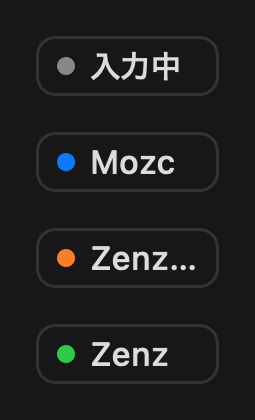
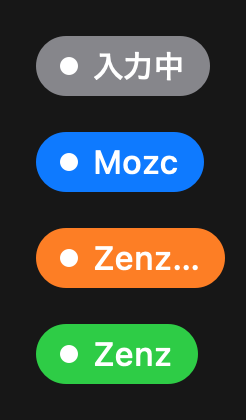
style(mac): draw the status indicator as a colored pill
- fill the chip with the status color and draw the dot and label in white
- round the corners to half the height
- size the chip to its own label, so short labels have no empty space on the right
- regenerate the sample images

diff --git a/src/mac/conversion_status_indicator.mm b/src/mac/conversion_status_indicator.mm
@@ -12,28 +12,20 @@ namespace {
 
 constexpr CGFloat kFontSize = 11;
 constexpr CGFloat kDotSize = 6;
-constexpr CGFloat kPaddingX = 7;
+constexpr CGFloat kPaddingX = 8;
 constexpr CGFloat kPaddingY = 3;
 constexpr CGFloat kDotLabelGap = 5;
-constexpr CGFloat kCornerRadius = 6;
 // Distance between the composition line and the indicator.
 constexpr CGFloat kLineGap = 4;
-
-constexpr Output::ConversionStatus kVisibleStatuses[] = {
-    Output::CONVERSION_STATUS_READING,
-    Output::CONVERSION_STATUS_ENGINE,
-    Output::CONVERSION_STATUS_ZENZ_PENDING,
-    Output::CONVERSION_STATUS_ZENZ,
-};
 
 NSDictionary<NSAttributedStringKey, id> *LabelAttributes() {
   return @{
     NSFontAttributeName : [NSFont systemFontOfSize:kFontSize weight:NSFontWeightMedium],
-    NSForegroundColorAttributeName : NSColor.labelColor,
+    NSForegroundColorAttributeName : NSColor.whiteColor,
   };
 }
 
-NSColor *DotColor(Output::ConversionStatus status) {
+NSColor *ChipColor(Output::ConversionStatus status) {
   switch (status) {
     case Output::CONVERSION_STATUS_ENGINE:
       return NSColor.systemBlueColor;
@@ -65,16 +57,10 @@ NSColor *DotColor(Output::ConversionStatus status) {
   }
 }
 
-+ (NSSize)preferredSize {
-  CGFloat labelWidth = 0;
-  CGFloat labelHeight = 0;
-  for (const Output::ConversionStatus status : kVisibleStatuses) {
-    const NSSize size = [[self labelForStatus:status] sizeWithAttributes:LabelAttributes()];
-    labelWidth = std::max(labelWidth, size.width);
-    labelHeight = std::max(labelHeight, size.height);
-  }
-  return NSMakeSize(std::ceil(kPaddingX * 2 + kDotSize + kDotLabelGap + labelWidth),
-                    std::ceil(kPaddingY * 2 + labelHeight));
++ (NSSize)sizeForStatus:(Output::ConversionStatus)status {
+  const NSSize label = [[self labelForStatus:status] sizeWithAttributes:LabelAttributes()];
+  return NSMakeSize(std::ceil(kPaddingX * 2 + kDotSize + kDotLabelGap + label.width),
+                    std::ceil(kPaddingY * 2 + label.height));
 }
 
 - (void)setStatus:(Output::ConversionStatus)status {
@@ -85,17 +71,13 @@ NSColor *DotColor(Output::ConversionStatus status) {
 }
 
 - (void)drawRect:(NSRect)dirtyRect {
-  const NSRect bounds = NSInsetRect(self.bounds, 0.5, 0.5);
-  NSBezierPath *background = [NSBezierPath bezierPathWithRoundedRect:bounds
-                                                             xRadius:kCornerRadius
-                                                             yRadius:kCornerRadius];
-  [[NSColor.windowBackgroundColor colorWithAlphaComponent:0.95] setFill];
-  [background fill];
-  [NSColor.separatorColor setStroke];
-  [background stroke];
+  // A pill: the corners are half the height.
+  const CGFloat radius = NSHeight(self.bounds) / 2;
+  [ChipColor(_status) setFill];
+  [[NSBezierPath bezierPathWithRoundedRect:self.bounds xRadius:radius yRadius:radius] fill];
 
   const NSRect dot = NSMakeRect(kPaddingX, NSMidY(self.bounds) - kDotSize / 2, kDotSize, kDotSize);
-  [DotColor(_status) setFill];
+  [NSColor.whiteColor setFill];
   [[NSBezierPath bezierPathWithOvalInRect:dot] fill];
 
   NSString *label = [ConversionStatusView labelForStatus:_status];
@@ -135,8 +117,8 @@ NSColor *DotColor(Output::ConversionStatus status) {
   if (panel_) {
     return;
   }
-  const NSSize size = [ConversionStatusView preferredSize];
-  const NSRect frame = NSMakeRect(0, 0, size.width, size.height);
+  // Resized for each status in showStatus:.
+  const NSRect frame = NSMakeRect(0, 0, 1, 1);
   panel_ = [[NSPanel alloc]
       initWithContentRect:frame
                 styleMask:NSWindowStyleMaskBorderless | NSWindowStyleMaskNonactivatingPanel
@@ -173,11 +155,11 @@ NSColor *DotColor(Output::ConversionStatus status) {
       break;
     }
   }
-  const NSSize size = panel_.frame.size;
+  const NSSize size = [ConversionStatusView sizeForStatus:status];
   const NSPoint origin = [ConversionStatusIndicator originForLineRect:lineRect
                                                                  size:size
                                                          visibleFrame:visibleFrame];
-  [panel_ setFrameOrigin:origin];
+  [panel_ setFrame:NSMakeRect(origin.x, origin.y, size.width, size.height) display:YES];
   // Above the client window, like the candidate window.
   panel_.level = std::max<NSInteger>(windowLevel + 1, NSPopUpMenuWindowLevel);
   [panel_ orderFront:nil];

diff --git a/src/mac/conversion_status_indicator_test.mm b/src/mac/conversion_status_indicator_test.mm
@@ -59,7 +59,8 @@ TEST(ConversionStatusIndicatorTest, KeptInsideTheScreen) {
 // without installing the IME.
 TEST(ConversionStatusIndicatorTest, RenderSamples) {
   const char *output_dir = std::getenv("NAGI_INDICATOR_SAMPLE_DIR");
-  const NSSize size = [ConversionStatusView preferredSize];
+  // The widest label, for the canvas.
+  const NSSize size = [ConversionStatusView sizeForStatus:Output::CONVERSION_STATUS_READING];
   EXPECT_GT(size.width, 0);
   EXPECT_GT(size.height, 0);
 
@@ -99,7 +100,8 @@ TEST(ConversionStatusIndicatorTest, RenderSamples) {
       CGFloat y = canvas.height - margin - size.height;
       for (const Output::ConversionStatus status : statuses) {
         ConversionStatusView *view = [[ConversionStatusView alloc]
-            initWithFrame:NSMakeRect(0, 0, size.width, size.height)];
+            initWithFrame:NSMakeRect(0, 0, [ConversionStatusView sizeForStatus:status].width,
+                                     size.height)];
         view.status = status;
         NSAffineTransform *transform = [NSAffineTransform transform];
         [transform translateXBy:margin yBy:y];

diff --git a/src/mac/conversion_status_indicator.h b/src/mac/conversion_status_indicator.h
@@ -15,8 +15,8 @@
 /** Label shown for |status|. Empty for CONVERSION_STATUS_NONE. */
 + (NSString *)labelForStatus:(mozc::commands::Output::ConversionStatus)status;
 
-/** One size for every status, so the indicator does not move when the label changes. */
-+ (NSSize)preferredSize;
+/** Size that fits the label of |status|. */
++ (NSSize)sizeForStatus:(mozc::commands::Output::ConversionStatus)status;
 @end
 
 /** Small floating panel that tells what produced the text in the composition. */
